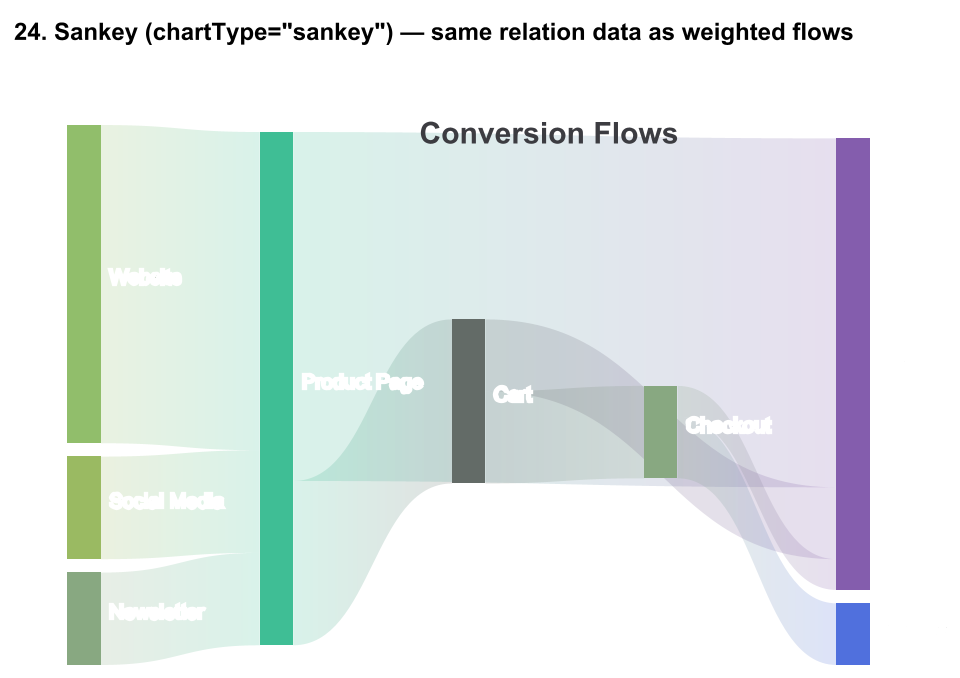
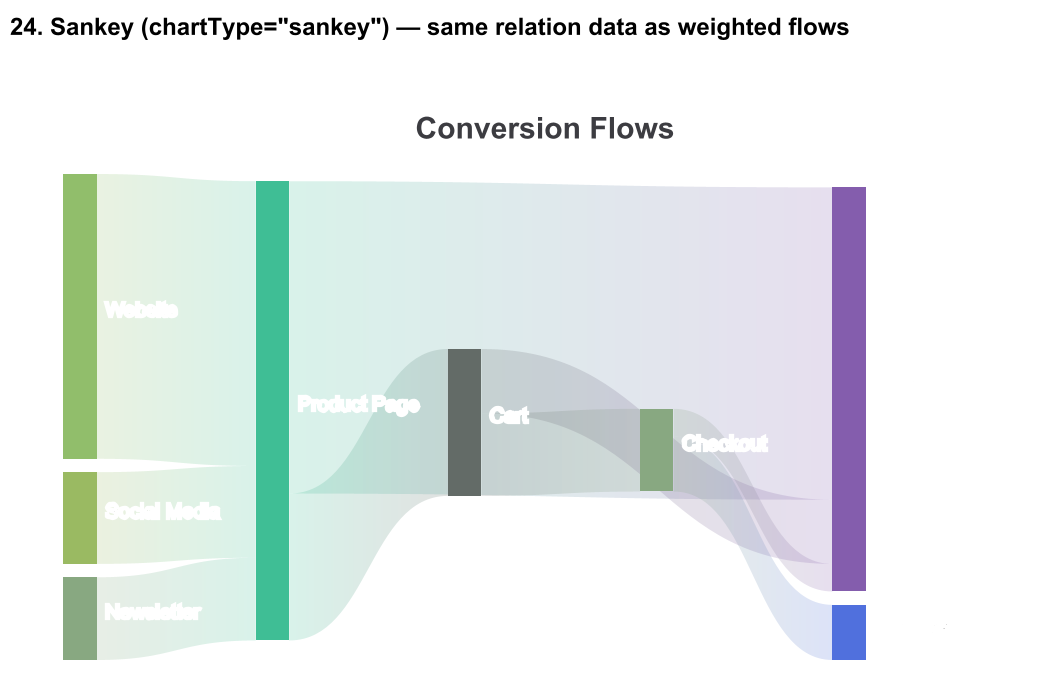
Release 0.3.2
Title-overlap fixes for polar, circular graph, sankey and parallel
layouts; README gallery refreshed from the fixed renders.

Changed region(s): [[0.0625, 0.1549, 0.9062, 0.9912], [0.0, 0.0, 0.9062, 0.0619]]

diff --git a/docs/getting-started.md b/docs/getting-started.md
@@ -25,7 +25,7 @@ export).
     <dependency>
         <groupId>tech.charteon</groupId>
         <artifactId>charteon-core</artifactId>
-        <version>0.3.1</version>
+        <version>0.3.2</version>
     </dependency>
 </dependencies>
 ```

diff --git a/README.md b/README.md
@@ -69,7 +69,7 @@ export format.
 <dependency>
     <groupId>tech.charteon</groupId>
     <artifactId>charteon-core</artifactId>
-    <version>0.3.1</version>
+    <version>0.3.2</version>
 </dependency>
 ```
 

diff --git a/CHANGELOG.md b/CHANGELOG.md
@@ -6,6 +6,8 @@ adheres to [Semantic Versioning](https://semver.org/).
 
 ## [Unreleased]
 
+## [0.3.2] - 2026-07-10
+
 ### Fixed
 
 - **Title collisions fixed for all remaining full-canvas layouts.** A visual
